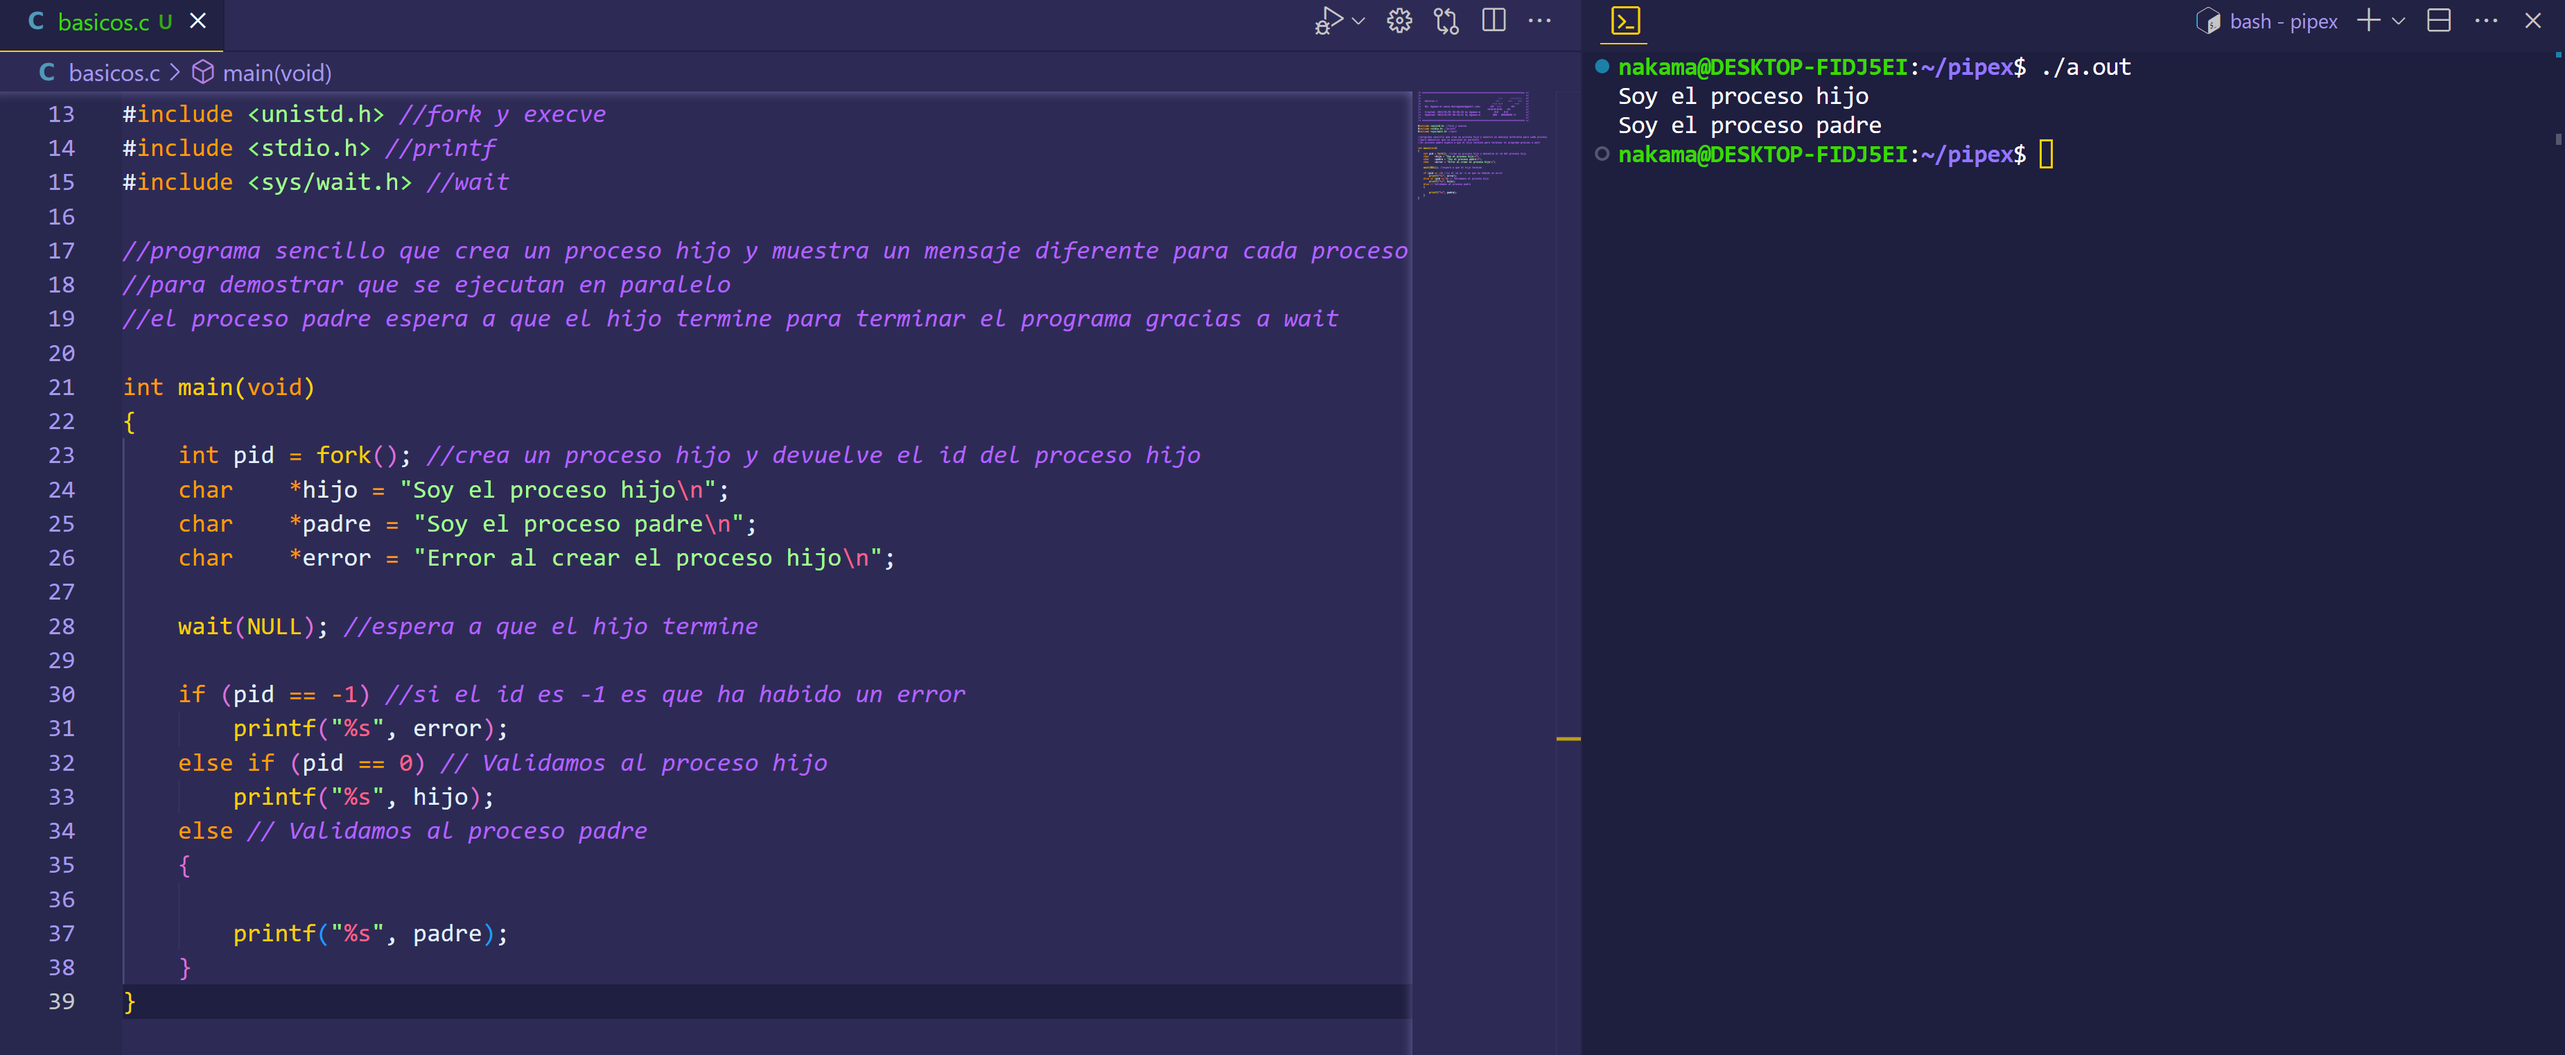
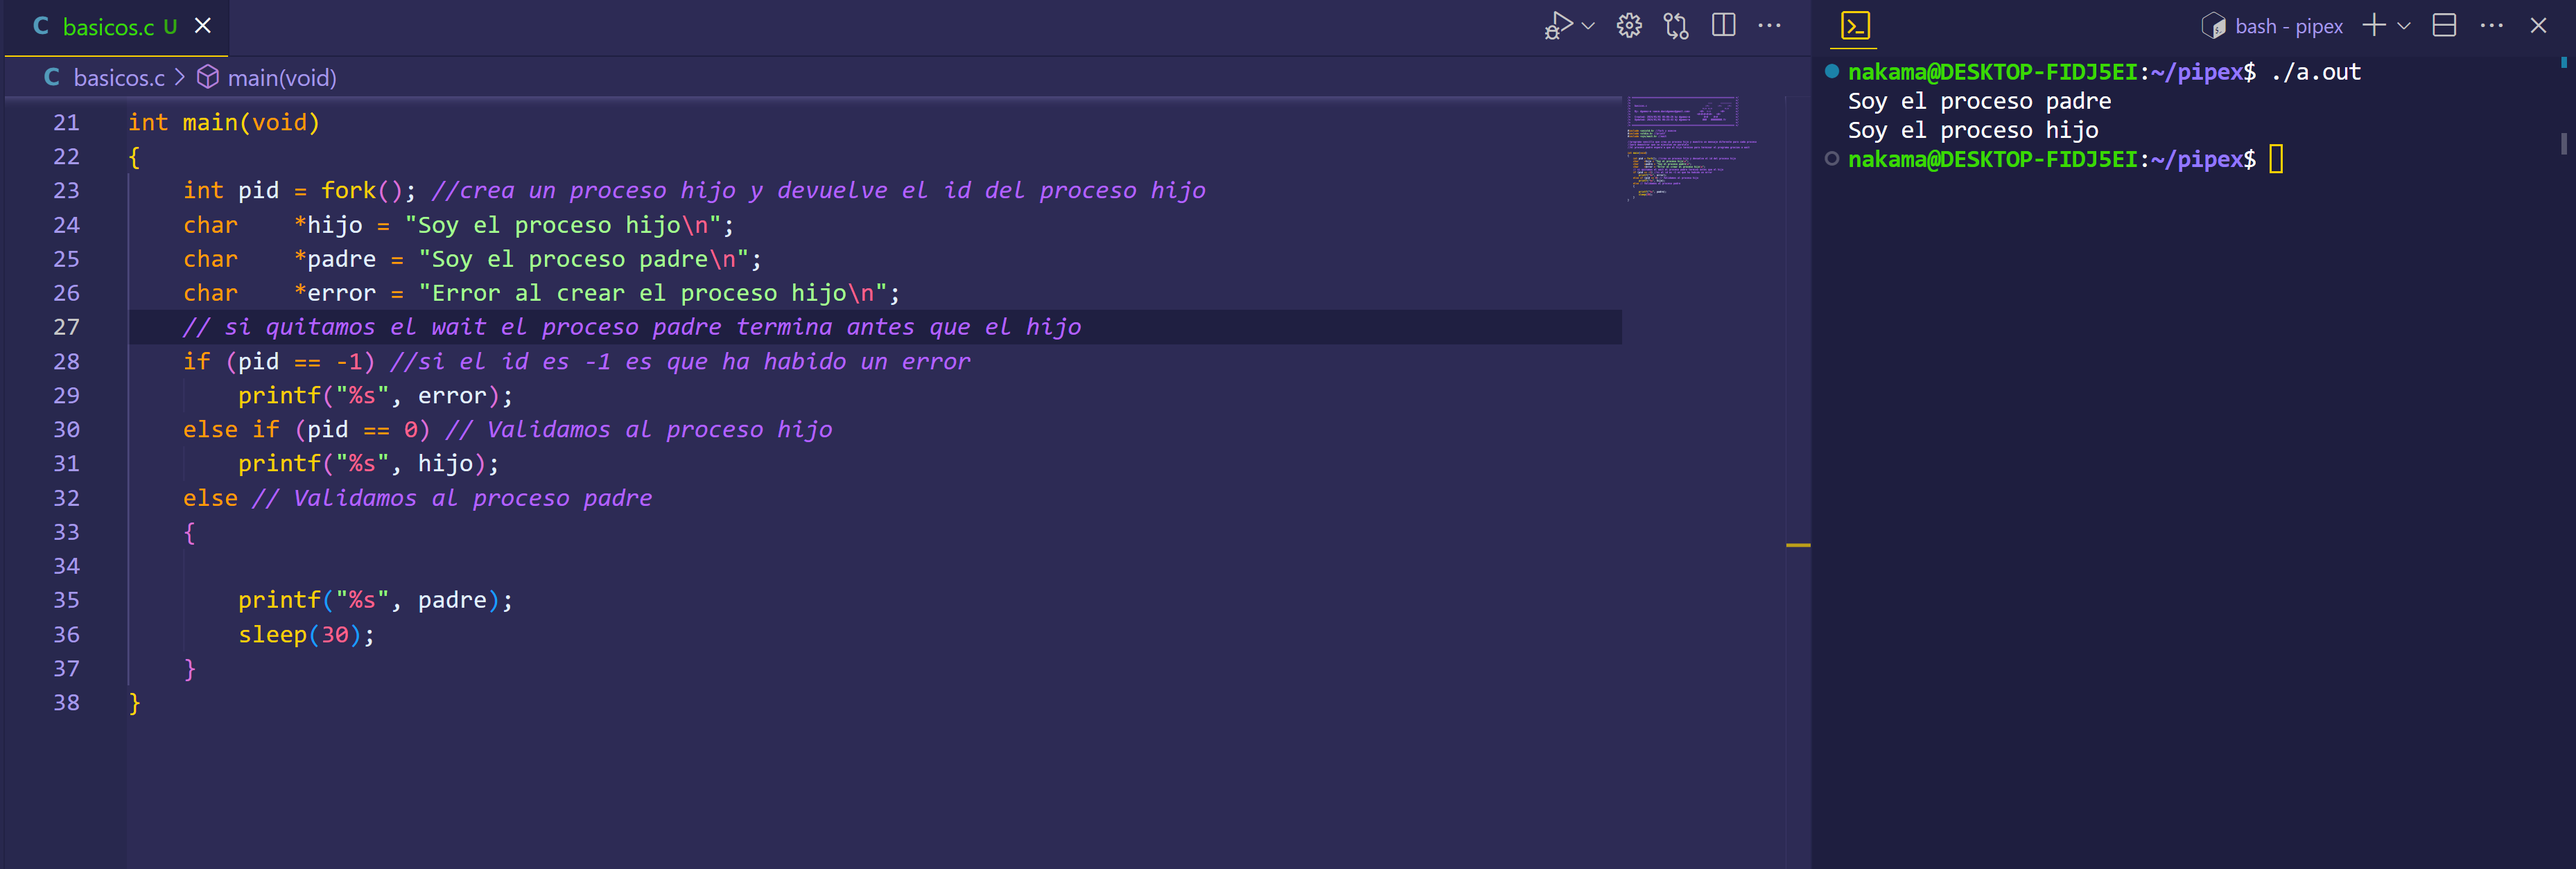
imagenes

diff --git a/README.md b/README.md
@@ -23,7 +23,7 @@ Queria empezar a construir y adquirir conocimientos haciendo unas pequeñas llam
 
 - Para demostrar esto tenemos un pequeño main 
 
-![basicos.c](/images/image.png)
+![basicos.c](/images/conwait.png)
 
 si quitas el wait y no esperas que el/los procesos hijos terminen 
 y el padre acaba antes puede haber problemas en este caso:
